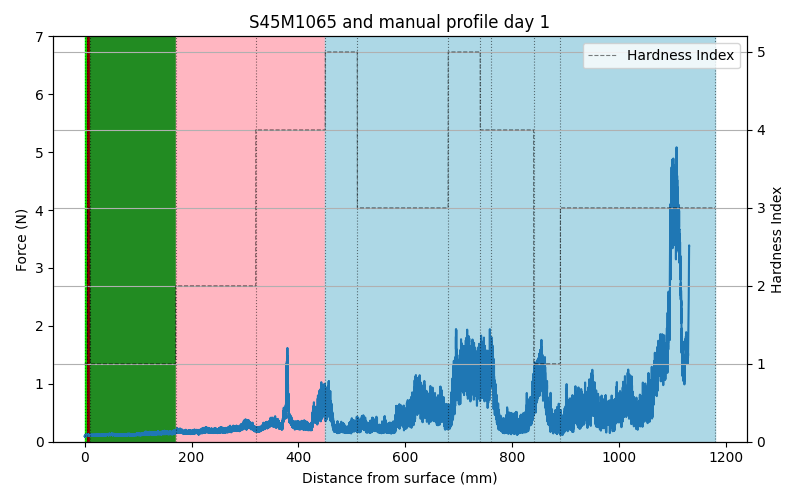
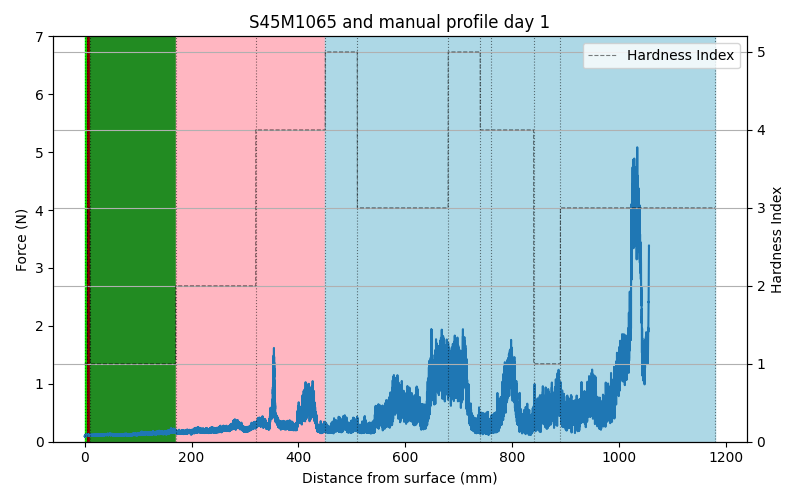
Angle correction to adapt SMP distance to Json distance

Changed region(s): [[0.2188, 0.3, 0.875, 0.87]]

diff --git a/code_json/alignSMPtoJson.py b/code_json/alignSMPtoJson.py
@@ -6,14 +6,26 @@ from pathlib import Path
 from code_SMP.readSMP import load_all_smp_profiles
 from code_json.readjson import load_lawis_profile
 
+def correct_height(df, angle):
+    #print(f"Max height {name}: ", df["distance"].max())
+    df["distance"] = df["distance"] * np.cos(np.deg2rad(angle))
+    #print(f"Max height after correction {name}: ", df["distance"].max())
+
+    return df
+
 def align_SMP_to_Snowprofile(df):
     # get day to knwo which profile to align 
     if df.attrs["date"] == 1: 
         #align to first Snowprofile
         json, boundaries = load_lawis_profile("data/LawisProfile23044.json")
+        angle = 21
     elif df.attrs["date"] == 2:
         #align to second Snowprofile
         json, boundaries = load_lawis_profile("data/LawisProfile23778.json")
+        angle = 25
+
+    # adapt height of SMP to match the JSON (angle correction)
+    df = correct_height(df, angle)
 
     # Plot SMP together with JSON profile !!ATTENTION!! plot has fixed height for force (7) 
     fig, ax = plt.subplots(figsize=(8, 5))
@@ -58,8 +70,8 @@ def align_SMP_to_Snowprofile(df):
     target_dir = Path("output/SMPtoJson")
     plt.savefig((target_dir / f"{name}toJson").with_suffix(".png"))
     #save as pdf for better quality in another folder
-    (target_dir / "pdf").mkdir(parents=True, exist_ok=True)
-    plt.savefig((target_dir / "pdf" / f"{name}toJson").with_suffix(".pdf"), format="pdf", bbox_inches="tight")
+    #(target_dir / "pdf").mkdir(parents=True, exist_ok=True)
+    #plt.savefig((target_dir / "pdf" / f"{name}toJson").with_suffix(".pdf"), format="pdf", bbox_inches="tight")
 
     plt.close()
 
